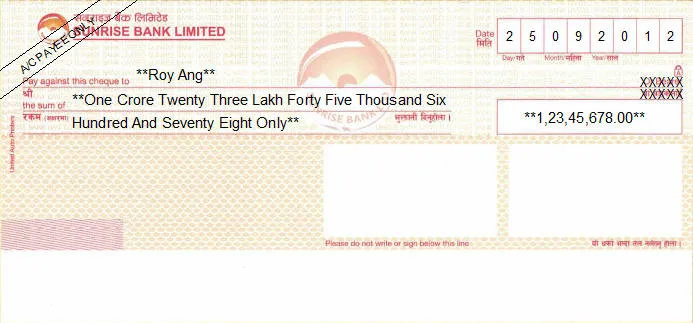
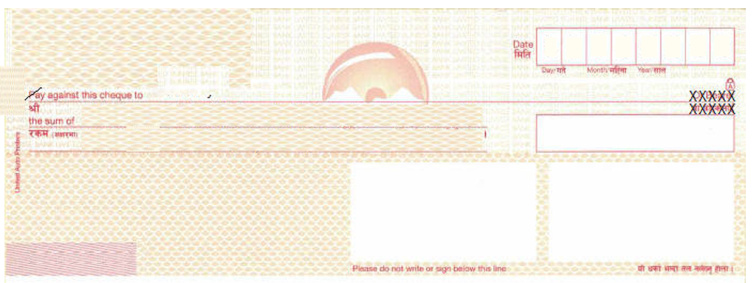
aguga

diff --git a/src/pages/Cheque.jsx b/src/pages/Cheque.jsx
@@ -1,56 +1,183 @@
-// ChequeForm.js
-import React, { useState } from 'react';
-import './ChequeForm.css';
+import React, { useState, useRef, useEffect } from "react";
+import "./ChequeForm.css";
 
-const ChequeForm = () => {
-  const [formData, setFormData] = useState({
-    payeeName: '',
-    amount: '',
-    date: '',
-    // Add more form fields as needed
+function Cheque() {
+  const [chequeData, setChequeData] = useState({
+    payee: "",
+    amount: "",
+    amountInWords: "",
+    date: new Date().toISOString().split("T")[0],
   });
 
-  const handleInputChange = (e) => {
-    setFormData({ ...formData, [e.target.name]: e.target.value });
+  const canvasRef = useRef(null);
+  const [previewVisible, setPreviewVisible] = useState(false);
+  const [errorMessage, setErrorMessage] = useState("");
+  const [isDrawing, setIsDrawing] = useState(false); // State to trigger canvas drawing
+
+  const handleChange = (e) => {
+    const { name, value } = e.target;
+    setChequeData((prevData) => ({
+      ...prevData,
+      [name]: value,
+    }));
   };
 
-  const handleSubmit = (e) => {
-    e.preventDefault();
-    // Save the form data as a JSON file
-    saveAsJSON(formData);
+  const validateInput = () => {
+    if (!chequeData.payee || !chequeData.amount || !chequeData.amountInWords) {
+      setErrorMessage("Please fill out all fields.");
+      return false;
+    }
+    return true;
   };
 
-  const saveAsJSON = (data) => {
-    const jsonData = JSON.stringify(data, null, 2);
-    const blob = new Blob([jsonData], { type: 'application/json' });
-    const url = URL.createObjectURL(blob);
-    const link = document.createElement('a');
-    link.href = url;
-    link.download = 'cheque_data.json';
-    document.body.appendChild(link);
-    link.click();
-    document.body.removeChild(link);
+  const handleSubmit = () => {
+    if (!validateInput()) {
+      alert("Please fill out all fields.");
+      return;
+    }
+    setPreviewVisible(true); // Trigger rendering of the canvas
+    setErrorMessage("");
+    setIsDrawing(true); // Trigger the drawing logic
+  };
+
+  useEffect(() => {
+    if (!isDrawing) return;
+
+    const canvas = canvasRef.current;
+    if (!canvas) {
+      setErrorMessage("Canvas element not found.");
+      return;
+    }
+
+    const ctx = canvas.getContext("2d");
+    const image = new Image();
+    image.src = "/preview.jpg"; // Ensure the image path is correct
+
+    image.onload = () => {
+      canvas.width = image.width || 800;
+      canvas.height = image.height || 400;
+
+      ctx.drawImage(image, 0, 0, canvas.width, canvas.height);
+
+      ctx.font = "20px Arial";
+      ctx.fillStyle = "black";
+
+      // Add cheque details
+      ctx.fillText(chequeData.payee || "Payee Name", 155, 100);
+      ctx.fillText(`₹ ${chequeData.amount || "0.00"}`, 600, 140);
+      ctx.fillText(chequeData.amountInWords || "Amount in words", 140, 145);
+      const dateStr = chequeData.date
+        ? new Date(chequeData.date)
+            .toLocaleDateString("en-GB")
+            .replace(/\//g, "")
+        : "";
+      const letterSpacing = 14; // 1.5px gap for each letter
+      let xPos = 540;
+
+      for (let i = 0; i < dateStr.length; i++) {
+        ctx.fillText(dateStr[i], xPos, 52);
+        xPos += ctx.measureText(dateStr[i]).width + letterSpacing;
+      }
+
+      setIsDrawing(false); // Reset drawing state
+    };
+
+    image.onerror = () => {
+      setErrorMessage(
+        "Failed to load cheque template image. Please check the file path."
+      );
+      setIsDrawing(false); // Reset drawing state
+    };
+  }, [isDrawing, chequeData]);
+
+  const handleDownload = () => {
+    const canvas = canvasRef.current;
+    if (canvas) {
+      const image = canvas.toDataURL("image/png");
+      const link = document.createElement("a");
+      link.href = image;
+      link.download = "cheque.png";
+      link.click();
+    }
+  };
+
+  const handleClear = () => {
+    setChequeData({
+      payee: "",
+      amount: "",
+      amountInWords: "",
+      date: new Date().toISOString().split("T")[0],
+    });
+    const canvas = canvasRef.current;
+    if (canvas) {
+      const ctx = canvas.getContext("2d");
+      ctx.clearRect(0, 0, canvas.width, canvas.height);
+    }
+    setPreviewVisible(false);
+    setErrorMessage("");
   };
 
   return (
-    <div className="cheque-form-container">
-      <img src="preview.jpg" alt="Cheque Template" className="cheque-template" />
-      <form onSubmit={handleSubmit} className="cheque-form">
-        <input
-          type="text"
-          name="payeeName"
-          placeholder="Payee Name"
-          value={formData.payeeName}
-          onChange={handleInputChange}
-          className="cheque-field payee-name"
-        />
-        {/* Add more form fields */}
-        <button type="submit" className="submit-button">
+    <div className="cheque-container">
+      <h1 className="cheque-title">Cheque Filling Simulator</h1>
+      {errorMessage && <p className="error-message">{errorMessage}</p>}
+      <div className="form-container">
+        {/* Input Fields */}
+        <div className="form-group">
+          <label>Pay to</label>
+          <input
+            type="text"
+            name="payee"
+            value={chequeData.payee}
+            onChange={handleChange}
+            placeholder="Enter payee name"
+          />
+        </div>
+        <div className="form-group">
+          <label>Amount (₹)</label>
+          <input
+            type="text"
+            name="amount"
+            value={chequeData.amount}
+            onChange={handleChange}
+            placeholder="Enter amount"
+          />
+        </div>
+        <div className="form-group">
+          <label>Amount in words</label>
+          <input
+            type="text"
+            name="amountInWords"
+            value={chequeData.amountInWords}
+            onChange={handleChange}
+            placeholder="Enter amount in words"
+          />
+        </div>
+        <div className="form-group">
+          <label>Date</label>
+          <input
+            type="date"
+            name="date"
+            value={chequeData.date}
+            onChange={handleChange}
+          />
+        </div>
+        <button className="submit-btn" onClick={handleSubmit}>
           Submit
         </button>
-      </form>
+      </div>
+
+      {previewVisible && (
+        <div className="canvas-container">
+          <canvas ref={canvasRef} style={{ border: "1px solid #000" }}></canvas>
+          <div className="canvas-controls">
+            <button onClick={handleDownload}>Download</button>
+            <button onClick={handleClear}>Clear</button>
+          </div>
+        </div>
+      )}
     </div>
   );
-};
+}
 
-export default ChequeForm;
+export default Cheque;

diff --git a/src/pages/ChequeForm.css b/src/pages/ChequeForm.css
@@ -1,55 +1,106 @@
-/* ChequeForm.css */
-.cheque-form-container {
-    position: relative;
-    width: 100%;
-    max-width: 600px;
-    margin: 0 auto;
+
+
+/* Form styles */
+.form-container {
+  background: white;
+  padding: 24px;
+  border-radius: 8px;
+  box-shadow: 0 2px 4px rgba(0, 0, 0, 0.1);
+  margin-bottom: 30px;
+  display: grid;
+  grid-template-columns: repeat(2, 1fr);
+  gap: 24px;
+}
+
+.form-group {
+  display: flex;
+  flex-direction: column;
+}
+
+.form-group label {
+  font-size: 14px;
+  font-weight: 500;
+  color: #333;
+  margin-bottom: 8px;
+}
+
+.form-group input {
+  padding: 10px;
+  border: 1px solid #ddd;
+  border-radius: 4px;
+  font-size: 16px;
+  transition: border-color 0.2s;
+}
+
+.form-group input:focus {
+  outline: none;
+  border-color: #4a90e2;
+  box-shadow: 0 0 0 2px rgba(74, 144, 226, 0.2);
+}
+
+/* Cheque preview styles */
+.cheque-preview {
+  position: relative;
+  width: 100%;
+  aspect-ratio: 2.5/1;
+  background: white;
+  border-radius: 8px;
+  box-shadow: 0 2px 4px rgba(0, 0, 0, 0.1);
+  overflow: hidden;
+}
+
+
+.cheque-overlay {
+  position: absolute;
+  inset: 0;
+}
+
+.cheque-overlay p {
+  margin: 0;
+  font-size: 16px;
+  font-weight: 500;
+  color: #1a1a1a;
+}
+
+.payee-field {
+  position: absolute;
+  top: 25%;
+  left: 15%;
+  transform: translateY(-50%);
+}
+
+.amount-words-field {
+  position: absolute;
+  top: 40%;
+  left: 15%;
+  transform: translateY(-50%);
+}
+
+.amount-number-field {
+  position: absolute;
+  top: 25%;
+  right: 10%;
+  transform: translateY(-50%);
+}
+
+.date-field {
+  position: absolute;
+  top: 15%;
+  right: 10%;
+  transform: translateY(-50%);
+}
+
+/* Responsive design */
+@media (max-width: 768px) {
+  .form-container {
+    grid-template-columns: 1fr;
   }
-  
-  .cheque-template {
-    width: 100%;
-    height: auto;
+
+  .cheque-container {
+    padding: 10px;
   }
-  
-  .cheque-form {
-    position: absolute;
-    top: 0;
-    left: 0;
-    width: 100%;
-    height: 100%;
-    display: flex;
-    flex-direction: column;
-    justify-content: center;
-    align-items: center;
+
+  .cheque-title {
+    font-size: 1.5rem;
   }
-  
-  .cheque-field {
-    position: absolute;
-    border: none;
-    background-color: transparent;
-    font-size: 16px;
-    color: #333;
-    opacity: 0;
-    transition: opacity 0.3s ease;
-  }
-  
-  .cheque-field:focus {
-    opacity: 1;
-  }
-  
-  .payee-name {
-    top: 20%;
-    left: 10%;
-  }
-  
-  /* Add more CSS rules for other form fields */
-  
-  .submit-button {
-    margin-top: 20px;
-    padding: 10px 20px;
-    background-color: #007bff;
-    color: #fff;
-    border: none;
-    border-radius: 4px;
-    cursor: pointer;
-  }
+}

diff --git a/src/components/Header.jsx b/src/components/Header.jsx
@@ -17,7 +17,7 @@ const Header = () => {
 
 const styles = {
     header: {
-        backgroundColor: "#4CAF50",
+        backgroundColor: "#8ecae6",
         padding: "1rem",
         display: "flex",
         justifyContent: "space-between",
